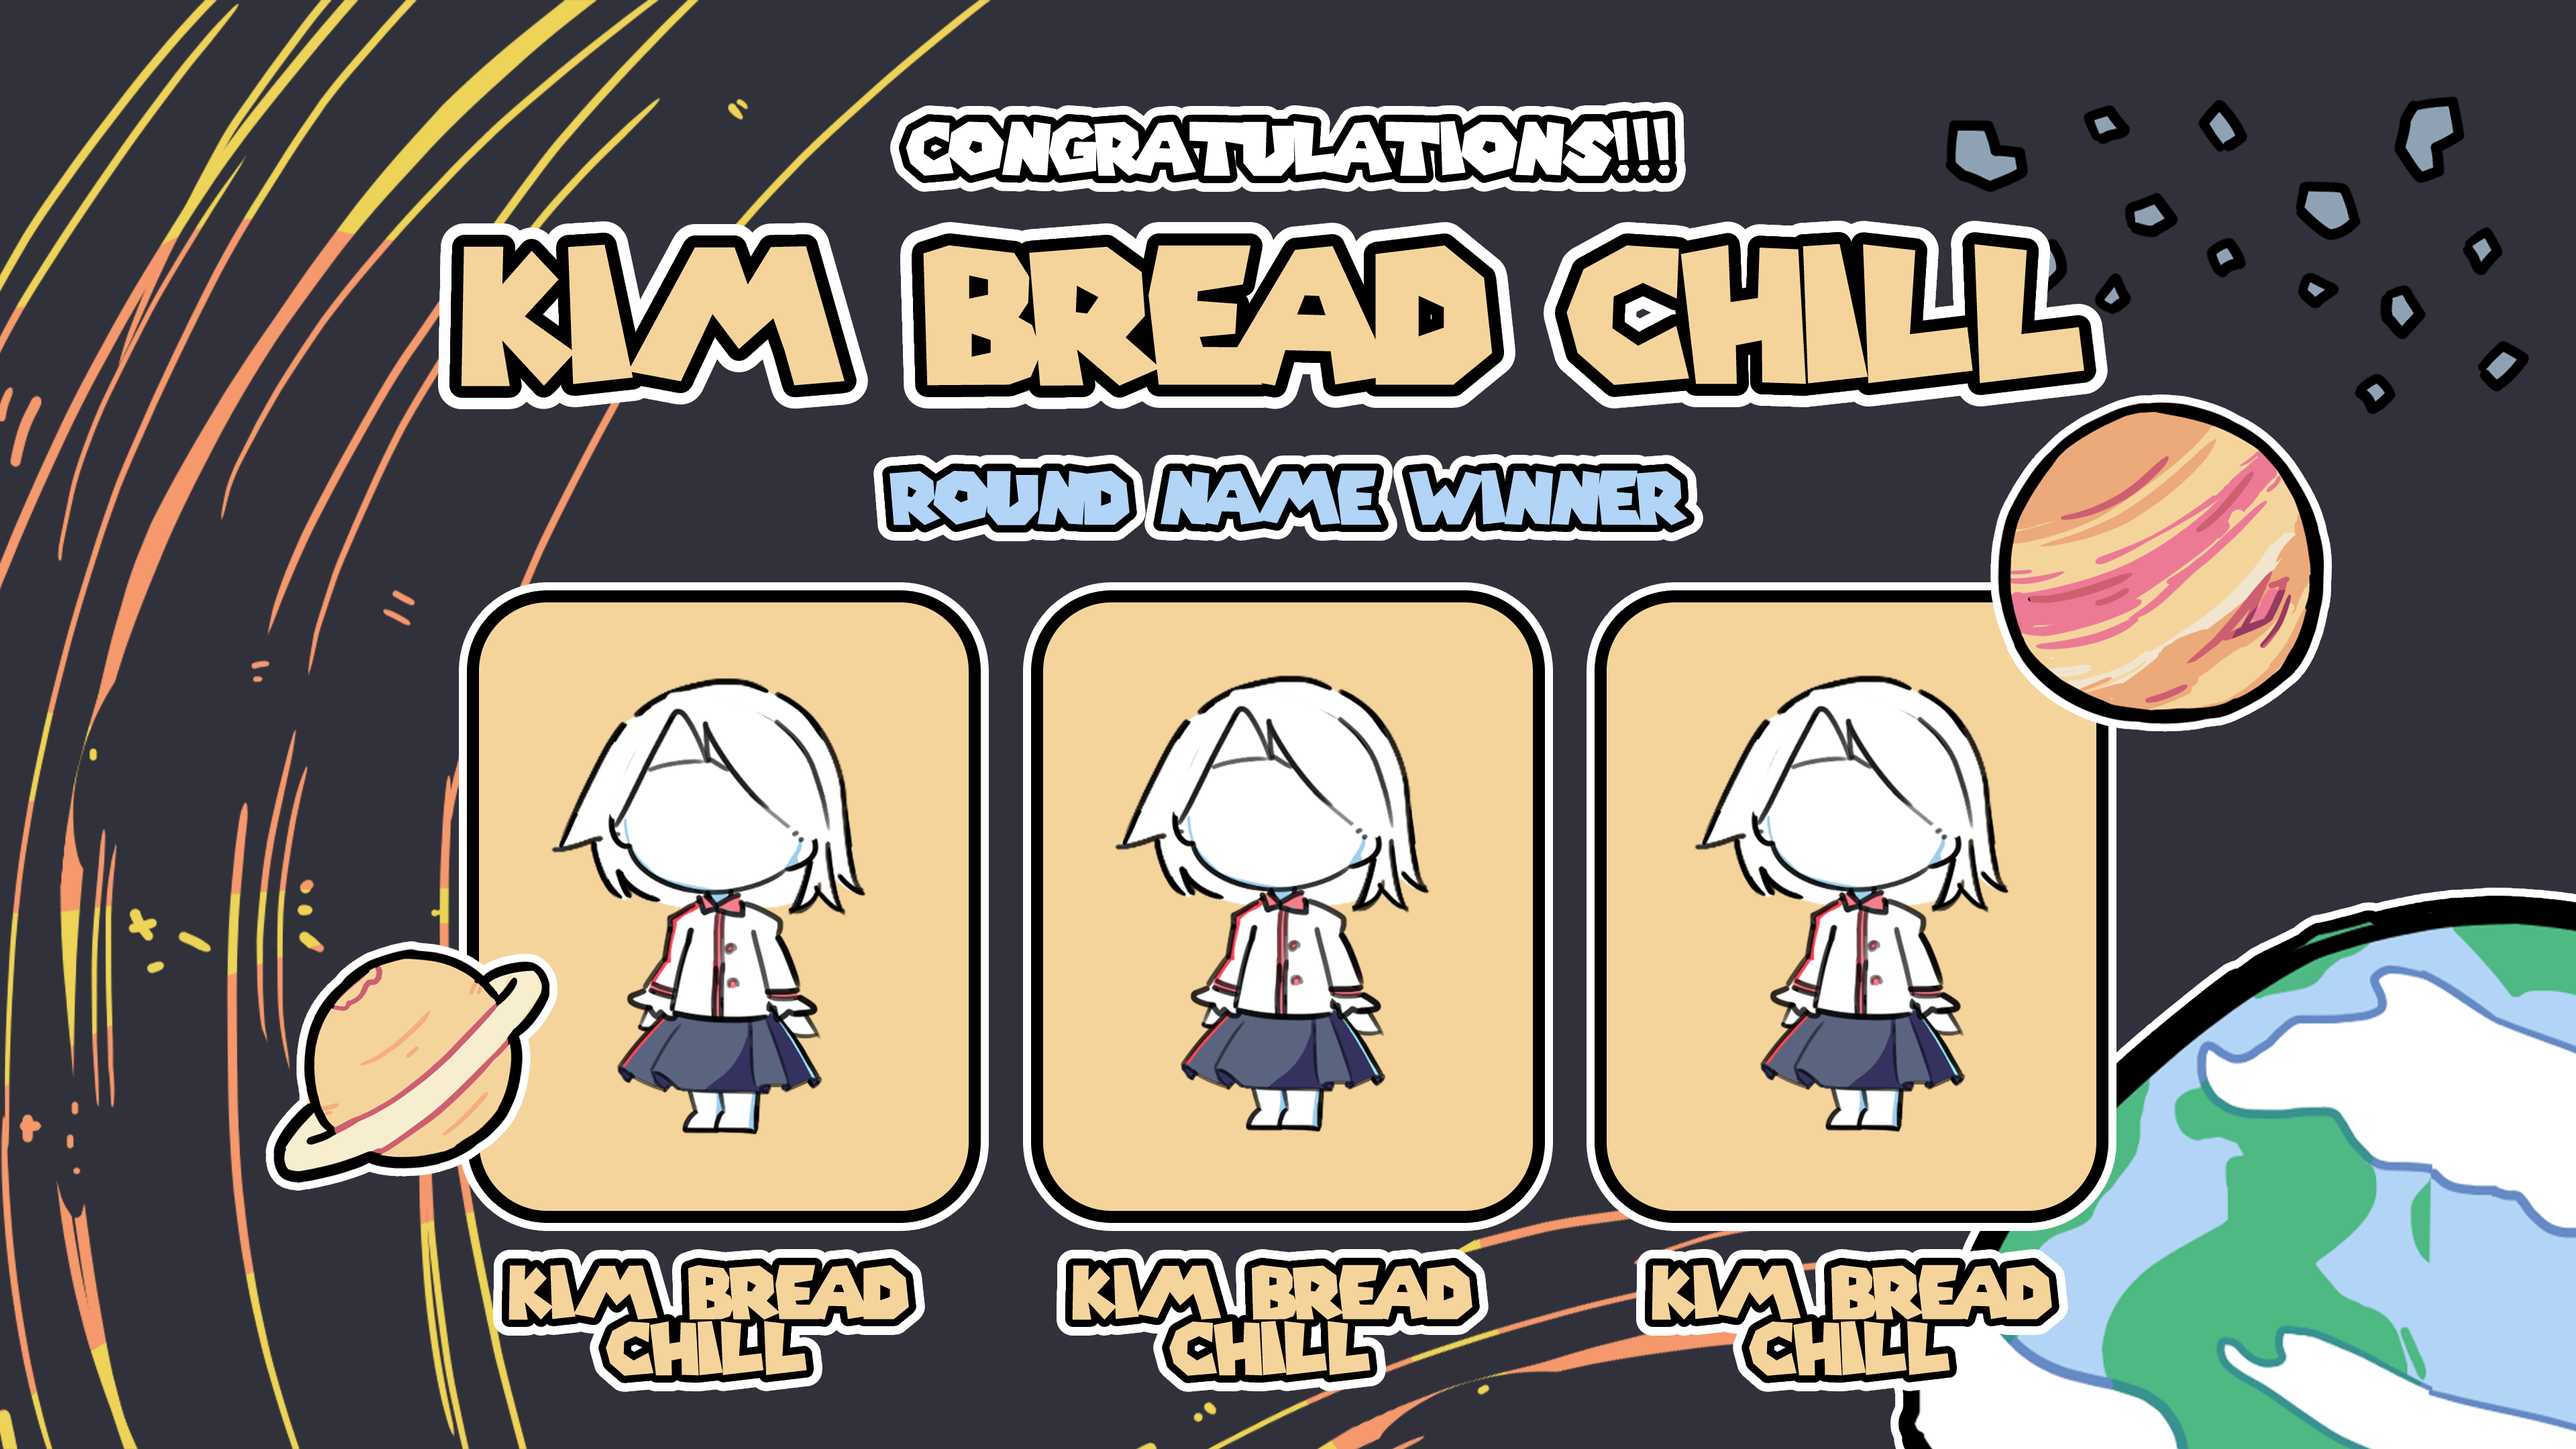
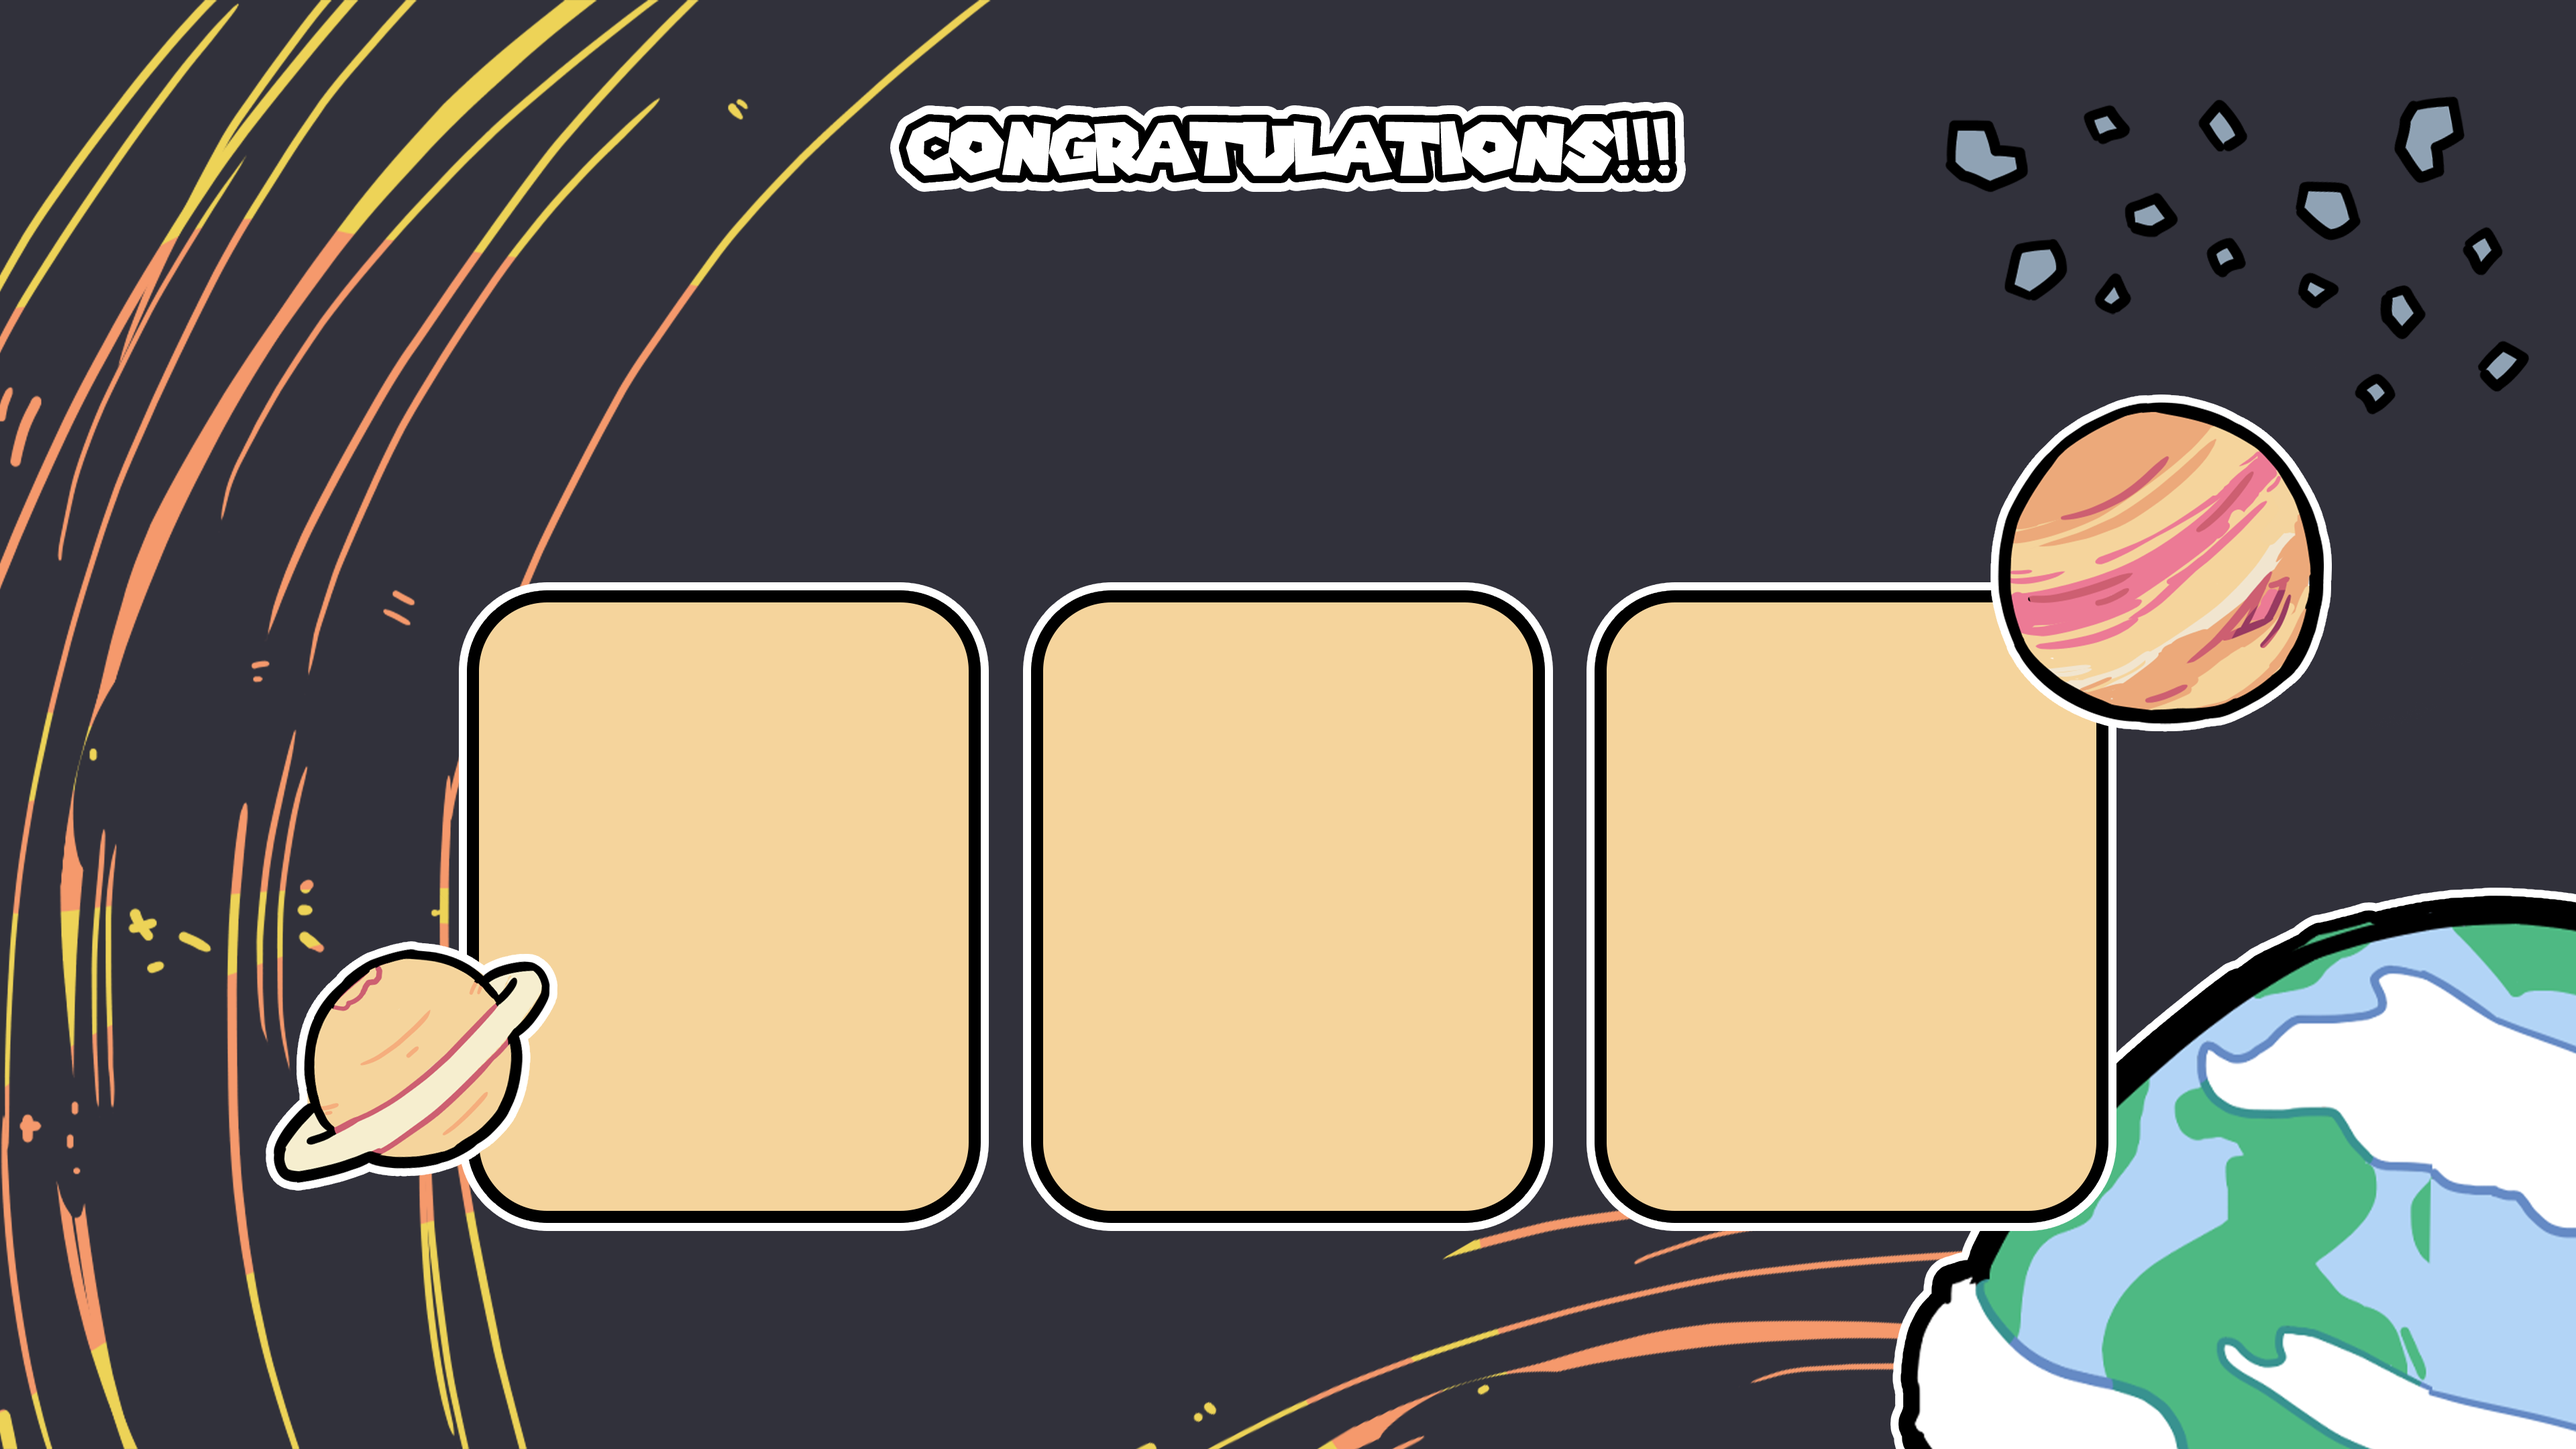
feat: complete styling winner

diff --git a/winner/index.html b/winner/index.html
@@ -63,7 +63,7 @@
                 font-size="150px"
                 letter-spacing="-12"
                 class="outlined-text"
-                id="round-name"
+                id="WINNER-name"
                 filter="url(#outline-winner-name)"
             >KIM BREAD CHILL</text>
         </svg>
@@ -77,11 +77,12 @@
                 font-size="57px"
                 letter-spacing="-4"
                 class="outlined-text outlined-text-round-name"
-                id="round-name"
+                id="round-name-WINNER"
                 filter="url(#outline-round-name)"
             >ROUND NAME WINNER</text>
         </svg>
 
+        <!-- Chibis -->
         <div class="chibi-wrapper">
             <div class="chibi-container">
                 <img src="static/placeholder chibi.png">
@@ -92,6 +93,49 @@
             <div class="chibi-container">
                 <img src="static/placeholder chibi.png">
             </div>
+        </div>
+
+        <!-- Player Names -->
+        <div class="player-name-wrapper">
+            <!-- Player Name -->
+            <svg xmlns="http://www.w3.org/2000/svg" width="366" height="300" viewBox="0 0 366 300">
+                <text
+                    x="183"
+                    y="285"
+                    text-anchor="middle"
+                    font-size="56px"
+                    letter-spacing="-4"
+                    class="outlined-text"
+                    id="player-1-name"
+                    filter="url(#outline-round-name)"
+                >KIM BREAD CHILL</text>
+            </svg>
+
+            <svg xmlns="http://www.w3.org/2000/svg" width="366" height="300" viewBox="0 0 366 300">
+                <text
+                    x="183"
+                    y="285"
+                    text-anchor="middle"
+                    font-size="56px"
+                    letter-spacing="-4"
+                    class="outlined-text"
+                    id="player-2-name"
+                    filter="url(#outline-round-name)"
+                >KIM BREAD CHILL</text>
+            </svg>
+
+            <svg xmlns="http://www.w3.org/2000/svg" width="366" height="300" viewBox="0 0 366 300">
+                <text
+                    x="183"
+                    y="285"
+                    text-anchor="middle"
+                    font-size="56px"
+                    letter-spacing="-4"
+                    class="outlined-text"
+                    id="player-3-name"
+                    filter="url(#outline-round-name)"
+                >KIM BREAD CHILL</text>
+            </svg>
         </div>
     </div>
 

diff --git a/winner/index.js b/winner/index.js
@@ -1,0 +1,57 @@
+function setPlayerName(playerNumber, name) {
+    const text = document.getElementById(`player-${playerNumber}-name`)
+
+    const maxWidth = 340
+    const words = name.split(" ")
+    const lines = []
+    let currentLine = ""
+
+    text.textContent = ""
+
+    for (const word of words) {
+        const testLine = currentLine
+            ? `${currentLine} ${word}`
+            : word
+
+        text.textContent = testLine
+
+        if (text.getComputedTextLength() <= maxWidth) {
+            currentLine = testLine
+        } else {
+            if (currentLine) {
+                lines.push(currentLine)
+            }
+
+            currentLine = word
+        }
+    }
+
+    if (currentLine) {
+        lines.push(currentLine)
+    }
+
+    text.textContent = ""
+
+    const lineYs = {
+        1: [285],
+        2: [235, 285],
+        3: [185, 235, 285],
+    }
+
+    lines.forEach((line, index) => {
+        const tspan = document.createElementNS(
+            "http://www.w3.org/2000/svg",
+            "tspan"
+        )
+
+        tspan.setAttribute("x", "183")
+        tspan.setAttribute("y", lineYs[lines.length][index])
+        tspan.textContent = line
+
+        text.appendChild(tspan)
+    })
+}
+
+setPlayerName(1, "KIM BRAD CHILL")
+setPlayerName(2, "KIM BRAD CHILL")
+setPlayerName(3, "KIM BRAD CHILL")

diff --git a/winner/style.css b/winner/style.css
@@ -1,3 +1,7 @@
+:root {
+    --winner-gap: 55px;
+}
+
 /* Whole Page */
 .main { background-image: url("static/background.png" )}
 
@@ -24,7 +28,7 @@
     display: flex;
     justify-content: center;
     width: 1920px;
-    gap: 55px;
+    gap: var(--winner-gap);
 }
 
 .chibi-container {
@@ -37,4 +41,14 @@
 
 .chibi-container img {
     height: 337px;
+}
+
+/* Player Name Wrapper */
+.player-name-wrapper {
+    position: absolute;
+    top: 750px;
+    display: flex;
+    justify-content: center;
+    width: 1920px;
+    gap: var(--winner-gap);
 }
